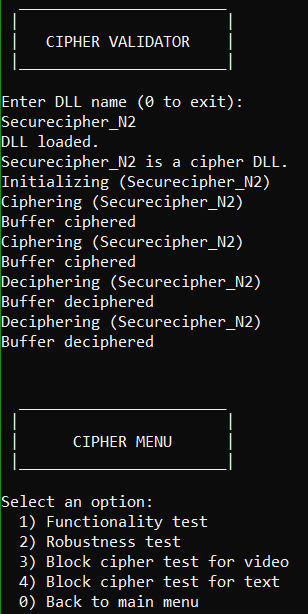
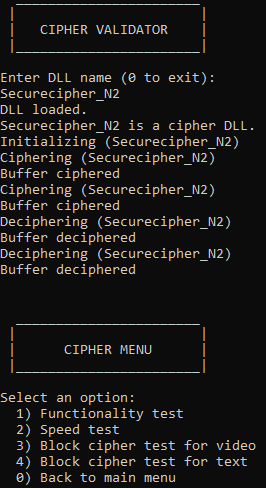
changed name of speed test instead robustness

Changed region(s): [[0.0, 0.0, 0.9624, 1.0], [0.4511, 0.1537, 0.812, 0.1844]]

diff --git a/CIPHER_BY_BLOCK_VALIDATOR/main.c b/CIPHER_BY_BLOCK_VALIDATOR/main.c
@@ -279,7 +279,7 @@ void menuLoop() {
 
 						printf("Select an option:\n");
 						printf("  1) Functionality test \n");
-						printf("  2) Robustness test \n");
+						printf("  2) Speed test \n");
 						printf("  3) Block cipher test for video \n");
 						printf("  4) Block cipher test for text \n");
 						printf("  0) Back to main menu \n");
@@ -337,7 +337,7 @@ void menuLoop() {
 										} while (!ciph_menu);
 										break;
 									case 2:
-										printf("ROBUSTNESS TEST \n");
+										printf("SPEED TEST \n");
 										double elapsed = (end - begin) * 1e-3;
 										printf("Time to complete cipher: %.3f seconds\n", elapsed);
 										HANDLE handle_aux = CreateFileA(file_ciphered, GENERIC_READ, FILE_SHARE_WRITE, NULL, OPEN_EXISTING, 0, NULL);
